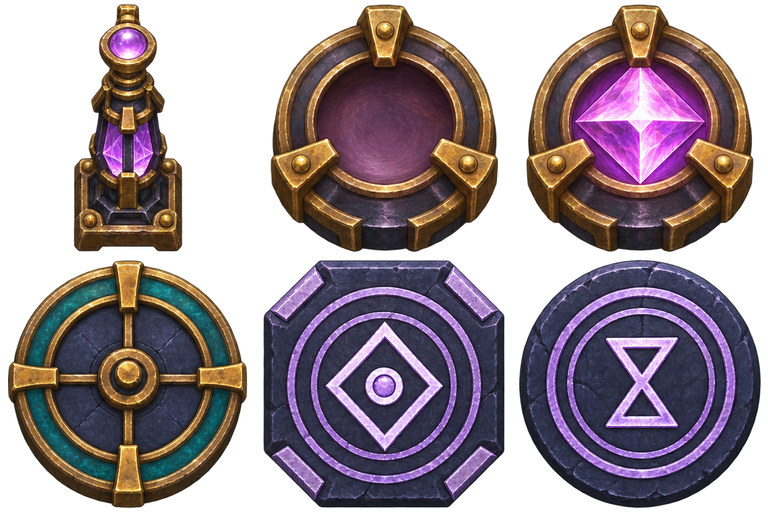
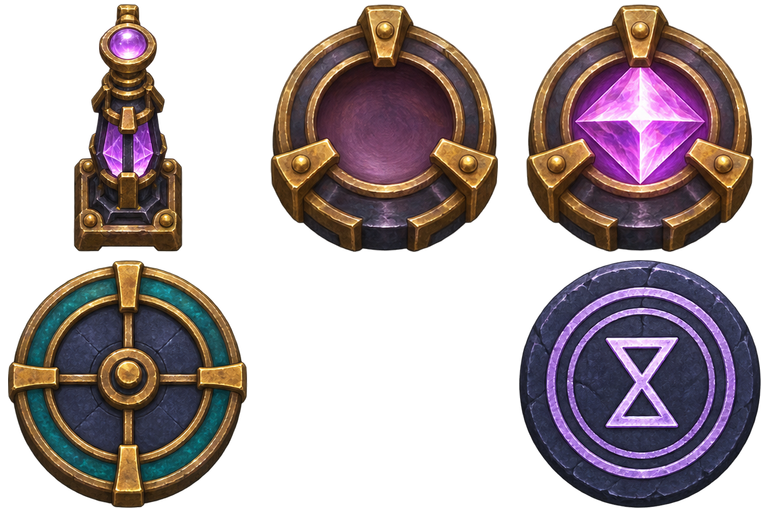
feat: 발자국과 표시등으로 기록 발판 개편
대기 중인 기록 발판에는 발자국을 표시하고 기록이 시작되면 주황색 조명을 켠다. 장치 도감과 안내에서 기록 발판 이름을 통일한다.

Changed region(s): [[0.3438, 0.5, 0.6562, 1.0]]

diff --git a/game/device_catalog.py b/game/device_catalog.py
@@ -48,7 +48,7 @@ CARDS = (
                "빈손으로 E / Space를 눌러 네 방향으로 돌려요. 화살표가 앞면이에요.",
                "앞면만 반사하고 뒷면은 빛을 막아요. 여러 거울을 이어 수신기에 보내세요."),
     DeviceCard("helper", "해골 인부", (("soldier_deployed", "해골 인부"),),
-               "기록석을 밟고 표시된 칸 수만큼 이동하면 방향이 기록돼요.",
+               "기록 발판을 밟고 표시된 칸 수만큼 이동하면 방향이 기록돼요.",
                "기록 뒤 수리공이 행동할 때마다 인부가 자기 자리에서 다음 방향으로 한 칸씩 이동해요."),
 )
 PAGE_COUNT = (len(CARDS) + CARDS_PER_PAGE - 1) // CARDS_PER_PAGE
@@ -124,7 +124,7 @@ def draw_catalog(view, game, page):
         view.text(left + 24, top - 68, card.title, 32, INK)
         pictures = card.pictures
         if view.top_down and card.kind == "helper":
-            pictures += (("recording_stone", "기록석"),)
+            pictures += (("recording_plate", "기록 발판"),)
         for i, (name, label) in enumerate(pictures):
             x = left + 114 + i * 206
             picture(view, name, x, top - 167)

diff --git a/game/tutorial.py b/game/tutorial.py
@@ -62,7 +62,7 @@ def device_lessons(level: Level) -> tuple[DeviceLesson, ...]:
          "당길 수 없어요. 빈 바닥·발판으로만 밀 수 있고, Z로 되돌릴 수 있어요.", level.rubble),
         ("mirror", "빛으로 장치 연결", "빈손으로 E / Space를 눌러 네 방향으로 돌리세요. 화살표 쪽 앞면만 빛을 반사합니다. 수신되면 연결문이 열립니다.",
          "벽·잔해·초소의 병사는 빛을 막아요. 사람·운반물·문은 막지 않아요.", level.mirrors),
-        ("helper", "발걸음을 따라가는 해골 인부", "기록석을 밟고 표시된 칸 수만큼 자유롭게 이동하세요.",
+        ("helper", "발걸음을 따라가는 해골 인부", "기록 발판을 밟고 표시된 칸 수만큼 자유롭게 이동하세요.",
          "기록이 끝나면 다음 행동부터 인부가 자기 자리에서 한 칸씩 따라 해요. 문양을 지날 때 문이 한 턴 열려요.", level.jobs)):
         if cells:
             lessons.append(DeviceLesson(kind, title, instruction, reminder, ((min(cells), title),)))

diff --git a/game/model.py b/game/model.py
@@ -192,7 +192,7 @@ class Game:
             return (None, "거울은 빈손으로 돌리세요.") if state.carrying else ("rotate", "E / Space: 거울 90도 회전 · 화살표 쪽 앞면만 반사")
         if pos in self.level.jobs:
             if pos in state.replay_workers:
-                return None, "기록석을 밟으면 자동으로 기록합니다."
+                return None, "기록 발판을 밟으면 자동으로 기록합니다."
             if pos in self.level.echo_links:
                 if state.carrying:
                     return None, "발걸음을 기록하려면 손을 비우세요."
@@ -357,7 +357,7 @@ class Game:
         else:
             state.player = recording.origin
             state.echo = Echo(recording.origin, recording.origin, inputs)
-            self.message = "기록석으로 돌아왔습니다. 분신이 같은 발걸음을 따라갑니다."
+            self.message = "기록 발판으로 돌아왔습니다. 분신이 같은 발걸음을 따라갑니다."
 
     def _advance_echo(self, state: State) -> None:
         echo = state.echo

diff --git a/game/topdown.py b/game/topdown.py
@@ -136,7 +136,9 @@ def device_entries(game, gate_statuses, powered, exit_ready, plate_depths):
         working = pos in state.workers
         label = level.device_labels[pos]
         if pos in level.echo_links:
-            entries[pos] = "recording_stone", recording_label(level, pos), ECHO_COLOR
+            recording = state.recording and state.recording.origin == pos
+            entries[pos] = (("recording_plate_active", "기록 중", GOLD) if recording else
+                            ("recording_plate", recording_label(level, pos), ECHO_COLOR))
         else:
             entries[pos] = ("helper" if working else "winch"), label, TEAL if working else GOLD
     for seals, _ in level.echo_links.values():

diff --git a/game/view.py b/game/view.py
@@ -540,6 +540,9 @@ class View:
             targets.update({pos: "레버 가동" for pos in level.levers})
         targets.update({pos: ITEM_NAMES[kind] for pos, kind in state.items.items()})
         for pos in sorted(targets, key=lambda cell: (sum(cell), cell)):
+            # 탑다운 기록 발판의 표시등을 금색 표식으로 가리지 않는다.
+            if self.top_down and pos in level.echo_links:
+                continue
             sx, sy = projection.screen(pos)
             # 같은 칸 캐릭터까지 포함해 표식이 머리나 물건에 가려지지 않게 한다.
             top = max((rect[3] for cell, rect in self.hit_masks if cell == pos), default=sy + 8)

diff --git a/assets/topdown_v2/README.md b/assets/topdown_v2/README.md
@@ -1,6 +1,6 @@
 # 탑다운 플레이 에셋
 
-화면의 수평·수직 축에 맞춘 정사각 격자용 스프라이트입니다. 내장 ImageGen 원화를 투명 여백에서 잘라 아틀라스 17장에 스프라이트 185개를 담았습니다.
+화면의 수평·수직 축에 맞춘 정사각 격자용 스프라이트입니다. 내장 ImageGen 원화를 투명 여백에서 잘라 아틀라스 18장에 스프라이트 186개를 담았습니다.
 
 - 지형 16개는 여덟 방의 이동 바닥과 막힌 벽을 구분합니다.
 - 장치 16개는 함정, 출구, 레버, 작업대, 발판, 연결문, 초소, 잔해의 상태를 표현합니다.
@@ -12,6 +12,6 @@
 
 거울의 반사면과 화살표는 생성한 회전대 위에 현재 반사 각도로 그립니다. [원화 프롬프트](source/prompts.json)에 각 시트의 셀 순서와 수리공 참조를 기록했습니다.
 
-장치 개편은 `device_mechanisms`, `device_fixtures`, `device_magic` 시트에서 가져옵니다. 금속 테두리와 큰 상징으로 함정·레버·발판·연결문의 상태를 구분합니다. 마력 수신기는 연결되면 밝은 수정이 차오르고, 기록석의 마름모와 재생 문양의 모래시계는 탑다운 게임판에 직접 표시합니다. 장치 도감도 탑다운 플레이 중에는 같은 스프라이트를 사용합니다. [장치 개편 프롬프트](source/device_refresh_prompts.json).
+장치 개편은 `device_mechanisms`, `device_fixtures`, `device_magic`, `device_recording` 시트에서 가져옵니다. 마력 수신기는 연결되면 밝은 수정이 차오릅니다. 발자국이 새겨진 기록 발판은 기록 중 주황색 표시등이 켜지고, 재생 문양에는 모래시계가 보입니다. 장치 도감도 탑다운 플레이 중에는 같은 스프라이트를 사용합니다. [장치 개편 프롬프트](source/device_refresh_prompts.json).
 
 `node tools/art/build-topdown-v2.mjs`로 원화에서 아틀라스와 `manifest.json`을 다시 만들 수 있습니다. 기존 아트 제작용 Sharp 패키지를 사용합니다.
